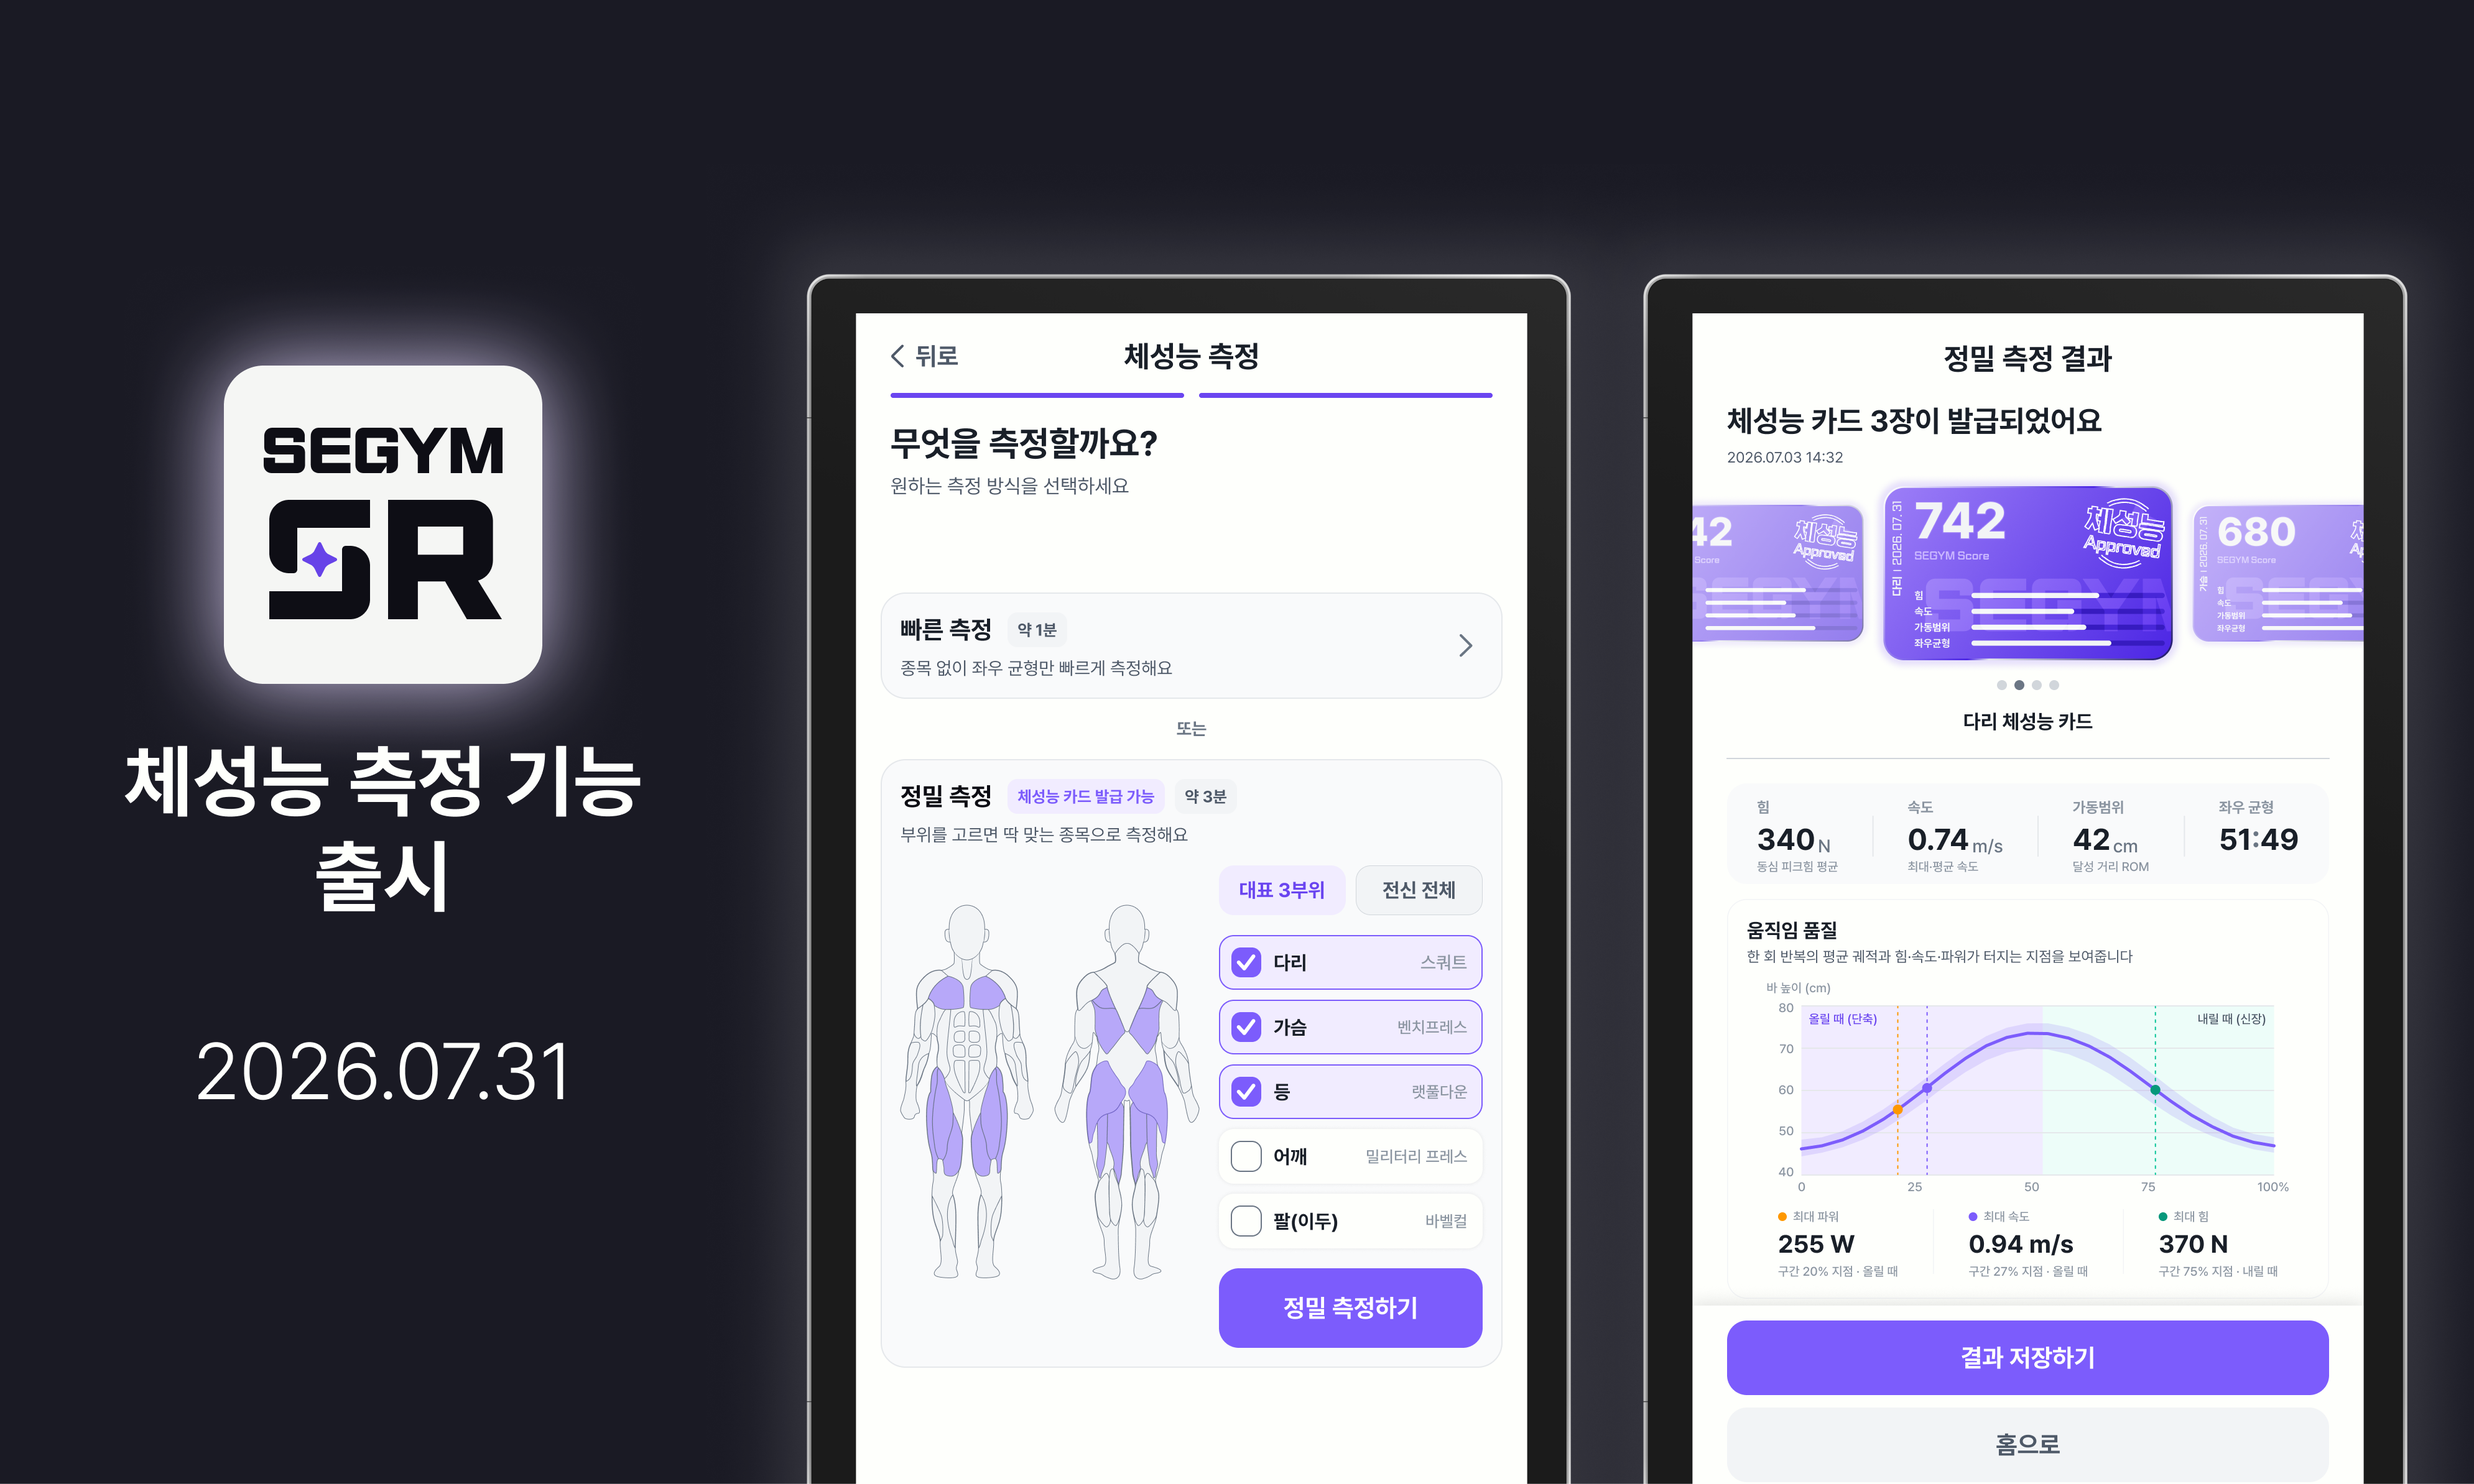
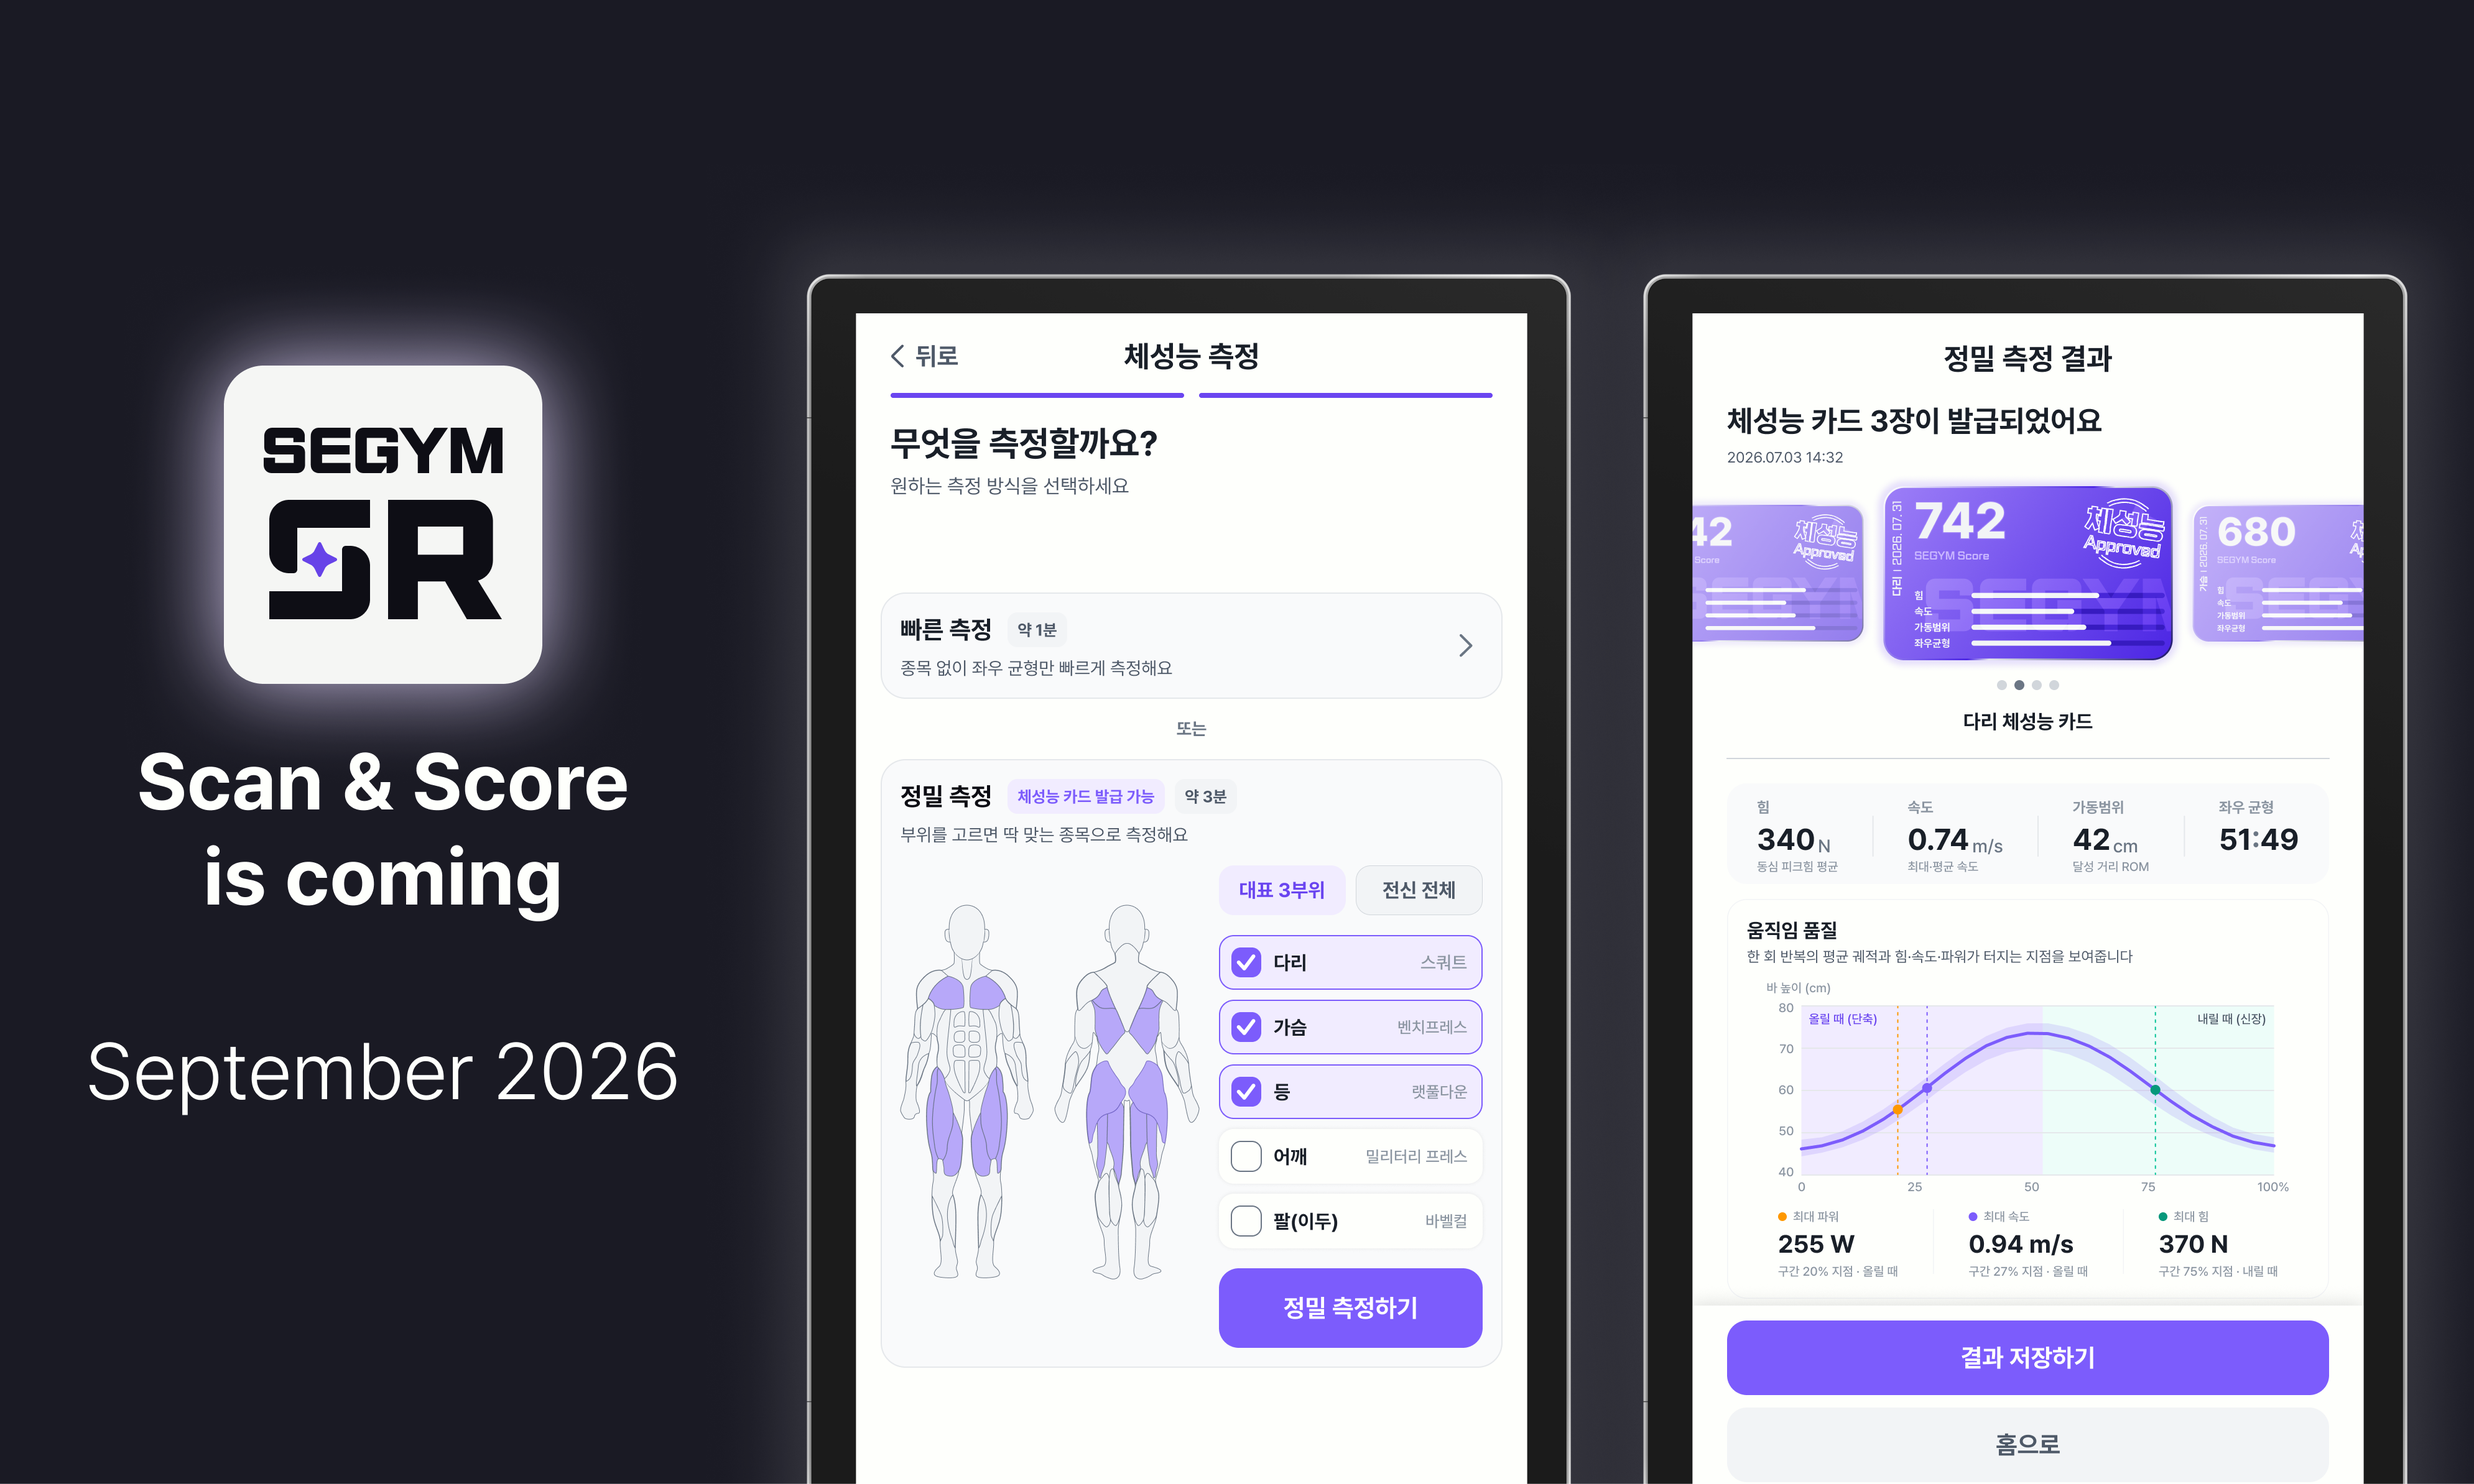
content: replace Scan & Score launch hero with English big2

Changed region(s): [[0.0312, 0.496, 0.2805, 0.62], [0.0312, 0.682, 0.2805, 0.744]]

diff --git a/src/components/en/EnScanScoreBanner.tsx b/src/components/en/EnScanScoreBanner.tsx
@@ -6,7 +6,7 @@ import { usePathname } from 'next/navigation'
 import { OpenInquiryButton } from '@/components/inquiry/OpenInquiryButton'
 import { EN_NAV } from '@/data/en/site'
 
-const STORAGE_KEY = 'segym-en-scan-score-float-dismissed-v2'
+const STORAGE_KEY = 'segym-en-scan-score-float-dismissed-v3'
 
 export function EnScanScoreBanner() {
   const pathname = usePathname()
@@ -77,7 +77,8 @@ export function EnScanScoreBanner() {
           <p className="text-[11px] font-bold uppercase tracking-wider text-primary">Coming soon</p>
           <p className="mt-0.5 text-sm font-bold text-gray-900 leading-snug">SEGYM Scan &amp; Score</p>
           <p className="mt-1 text-xs text-gray-600 leading-relaxed">
-            Body performance measurement is launching — measure athletic ability, then see it as a clear score.
+            Body performance measurement is coming in September 2026 — measure athletic ability, then see it as a clear
+            score.
           </p>
         </div>
 
